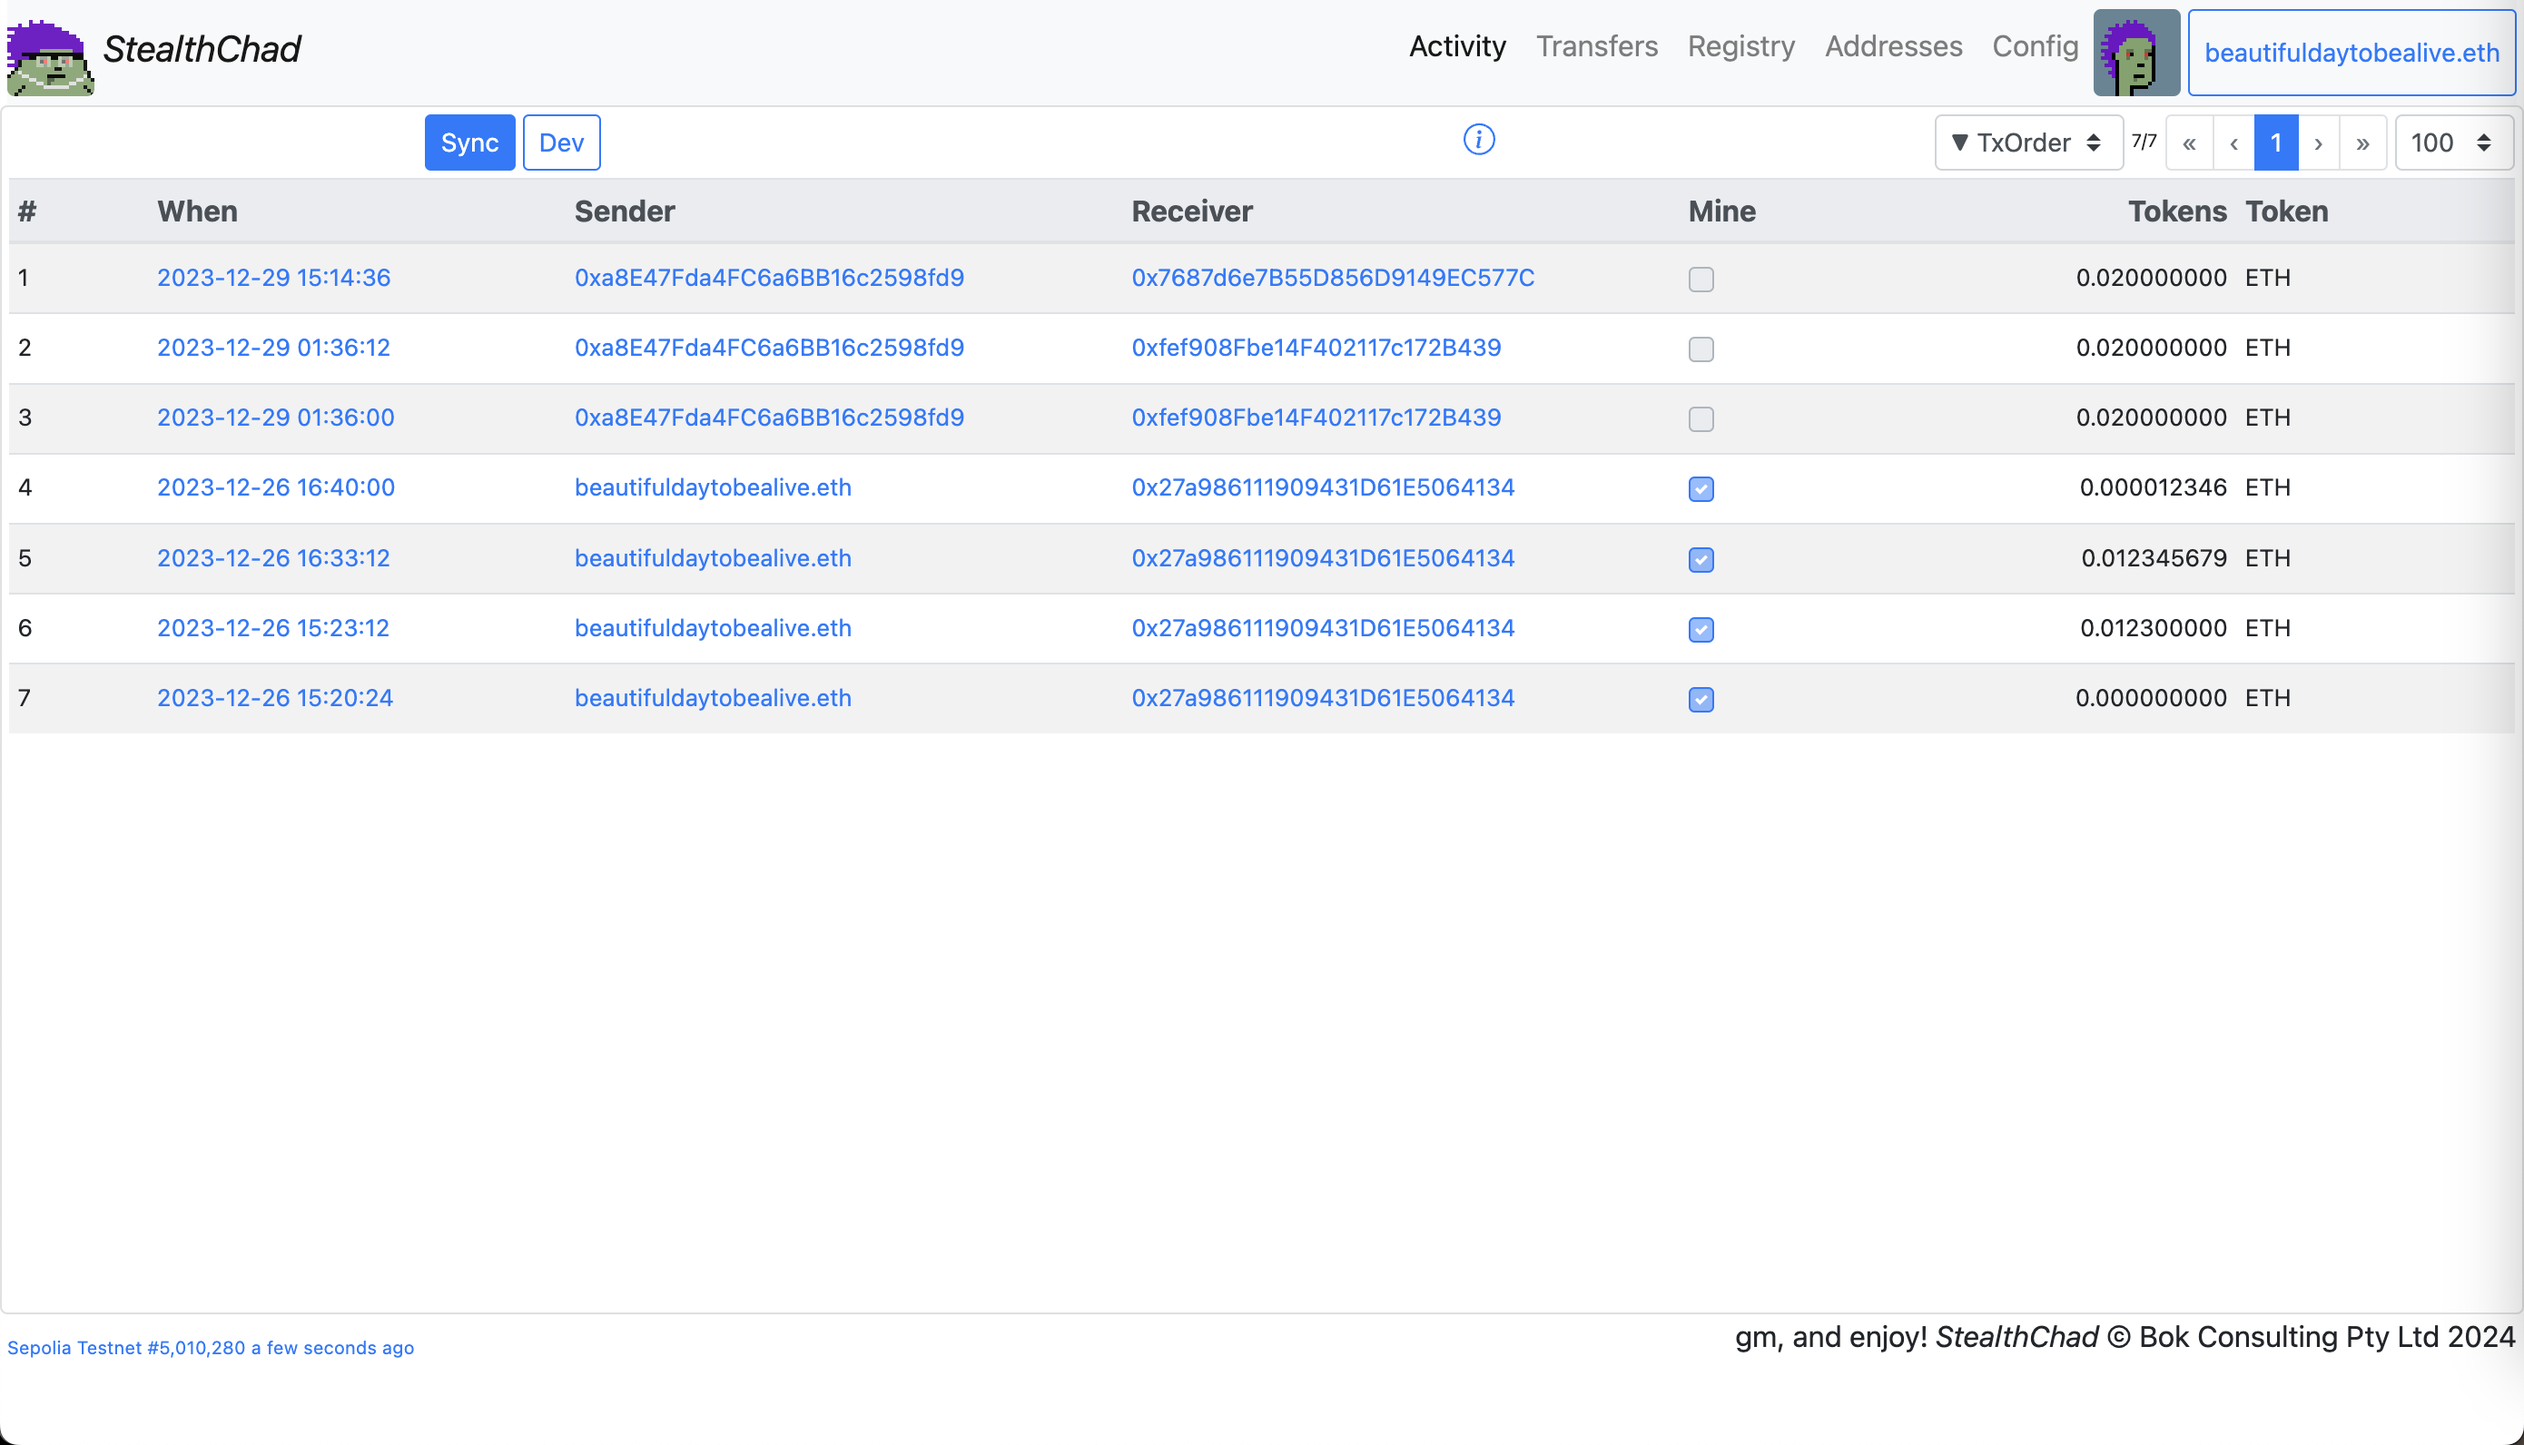
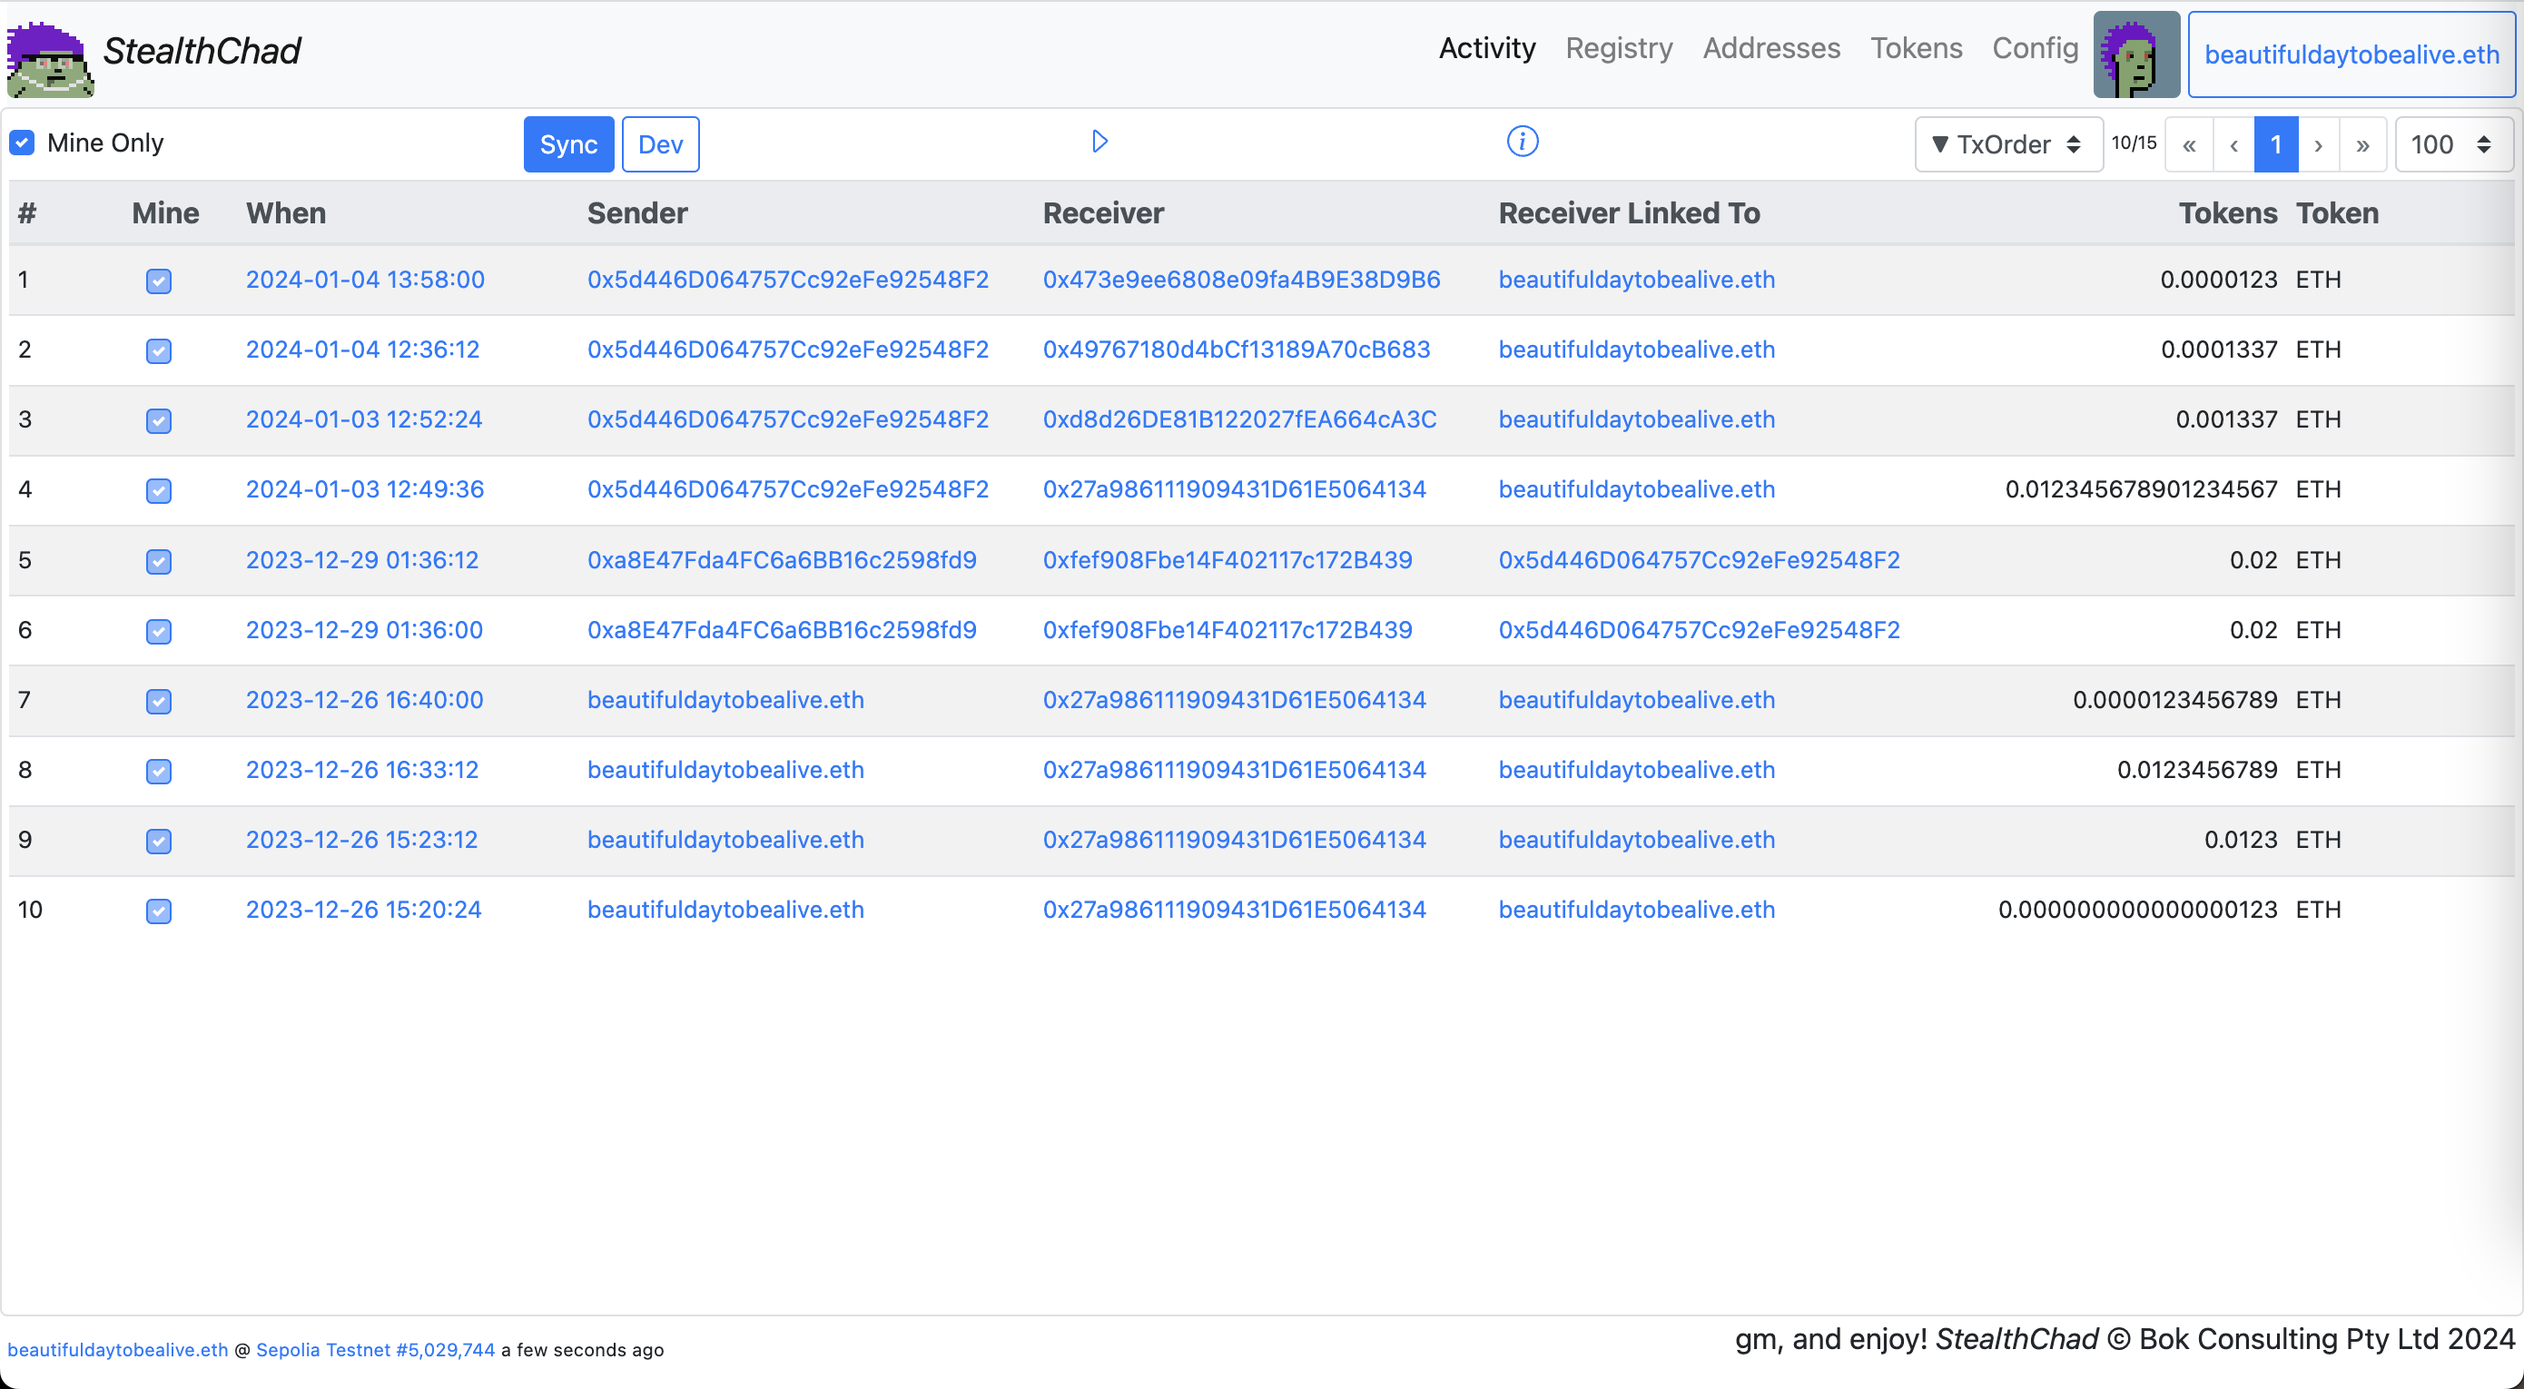
tokens wip

diff --git a/docs/index.html b/docs/index.html
@@ -675,6 +675,11 @@
                     <font size="-1" v-b-popover.hover="addressDescription(data.item.stealthAddress)">{{ nameOrAddress(data.item.stealthAddress, 28) }}</font>
                   </b-link>
                 </template>
+                <template #cell(linkedTo)="data">
+                  <b-link @click="viewAddress(data.item.linkedTo.address)">
+                    <font size="-1" v-b-popover.hover="addressDescription(data.item.linkedTo.address)">{{ nameOrAddress(data.item.linkedTo.address, 28) }}</font>
+                  </b-link>
+                </template>
                 <template #cell(mine)="data">
                   <b-form-checkbox size="sm" disabled value="1" :checked="data.item.mine ? 1 : 0" class="mt-1 ml-2"></b-form-checkbox>
                 </template>
@@ -1230,6 +1235,7 @@
             { key: 'timestamp', label: 'When', sortable: false, thStyle: 'width: 15%;', tdClass: 'text-truncate' },
             { key: 'sender', label: 'Sender', sortable: false, thStyle: 'width: 20%;', thClass: 'text-left', tdClass: 'text-truncate' },
             { key: 'receiver', label: 'Receiver', sortable: false, thStyle: 'width: 20%;', thClass: 'text-left', tdClass: 'text-truncate' },
+            { key: 'linkedTo', label: 'Receiver Linked To', sortable: false, thStyle: 'width: 20%;', thClass: 'text-left', tdClass: 'text-truncate' },
             { key: 'tokens', label: 'Tokens', sortable: false, thStyle: 'width: 15%;', thClass: 'text-right', tdClass: 'text-right' },
             { key: 'token', label: 'Token', sortable: false, thStyle: 'width: 10%;', thClass: 'text-left', tdClass: 'text-left' },
           ],
